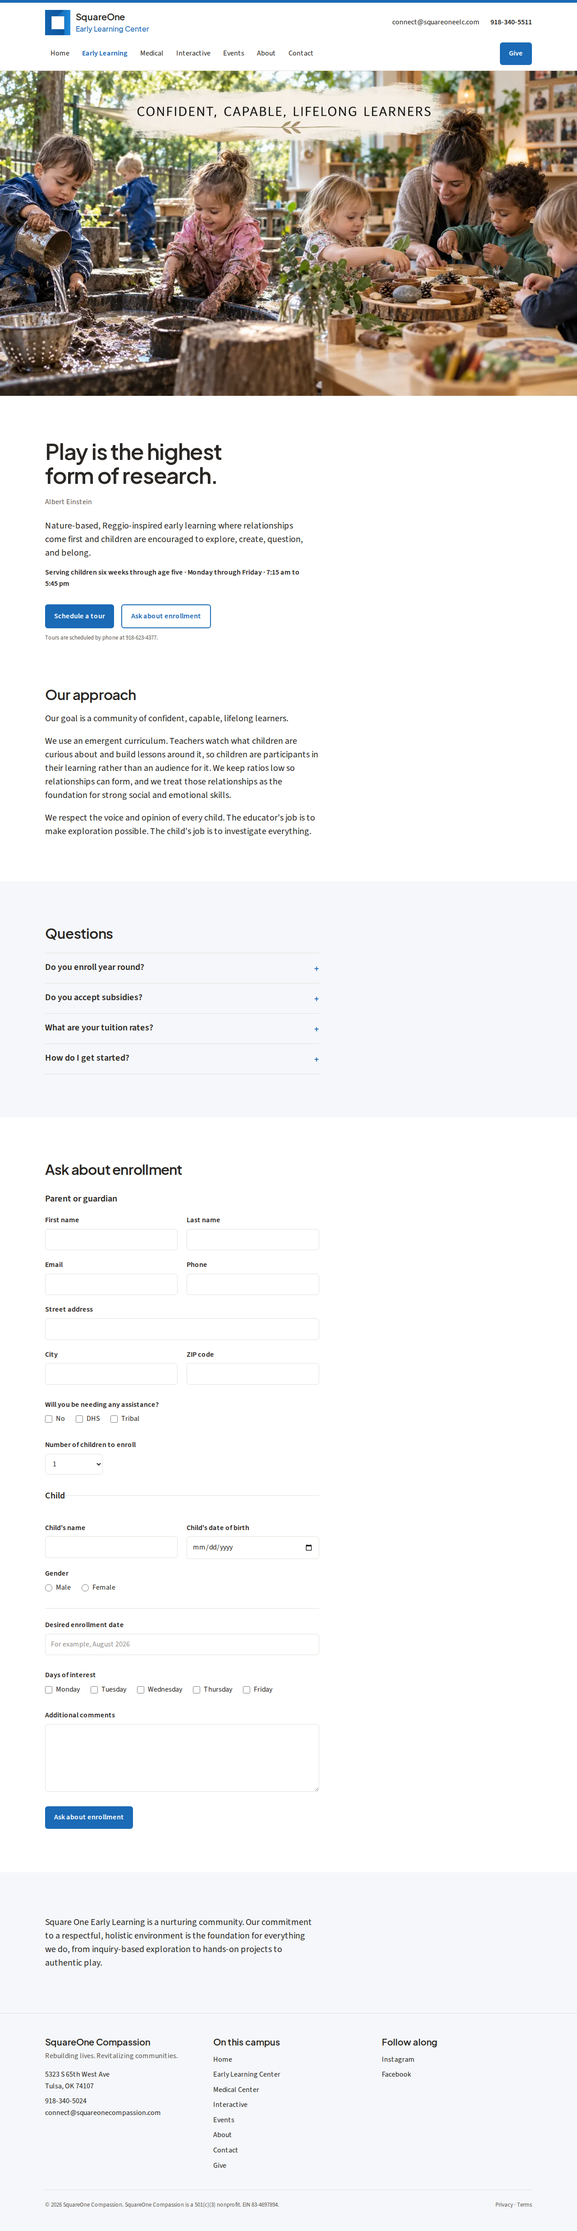
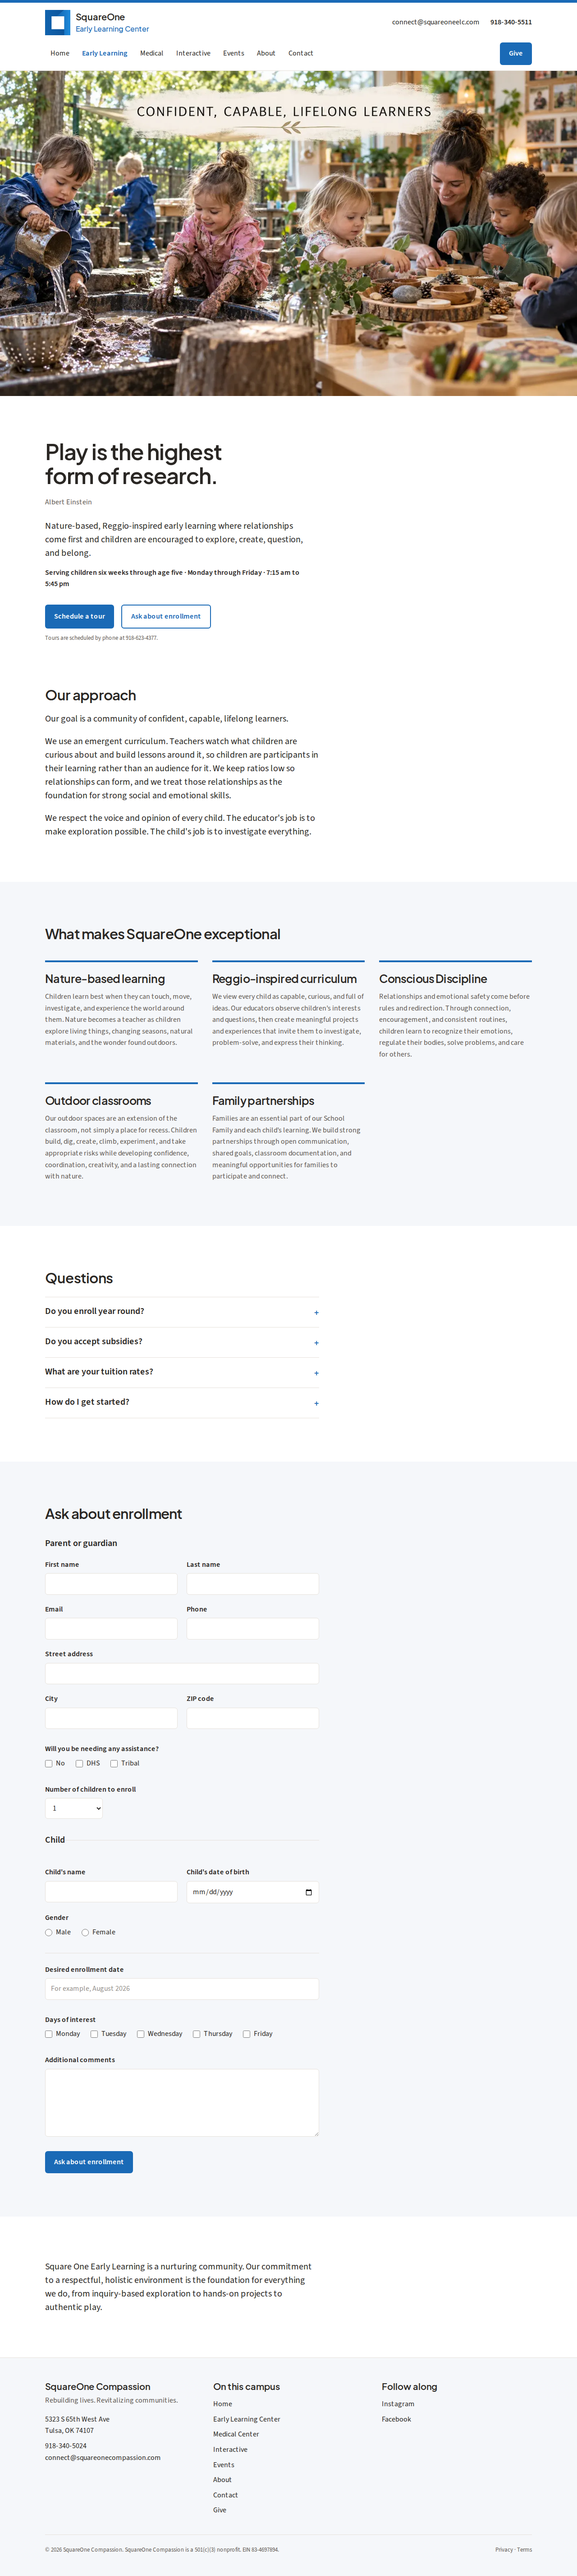
ELC page: add "What makes SquareOne exceptional" with five cards
From the ELC director: Nature-based learning, Reggio-inspired curriculum,
Conscious Discipline, Outdoor classrooms, and Family partnerships, under
Our approach. Each card shows a real photo once a file with its name is
in public/photos/elc/. Two house-style edits: "learning journey" to
"learning", an em dash to a comma.

Claude-Session: https://claude.ai/code/session_01Dy1NBE1CDjARVuM4emY1ru

diff --git a/content/elc.ts b/content/elc.ts
@@ -1,0 +1,41 @@
+// "What makes SquareOne exceptional" cards, from the ELC director. Mirrored in COPY.md.
+// Each card shows a photo when public/photos/elc/<photo>.{webp,jpg,jpeg,png} exists.
+export interface ElcPillar {
+  photo: string
+  title: string
+  body: string
+  alt: string
+}
+
+export const ELC_PILLARS: ElcPillar[] = [
+  {
+    photo: 'nature-based-learning',
+    title: 'Nature-based learning',
+    body: 'Children learn best when they can touch, move, investigate, and experience the world around them. Nature becomes a teacher as children explore living things, changing seasons, natural materials, and the wonder found outdoors.',
+    alt: 'Children exploring outdoors at SquareOne Early Learning Center',
+  },
+  {
+    photo: 'reggio-inspired-curriculum',
+    title: 'Reggio-inspired curriculum',
+    body: 'We view every child as capable, curious, and full of ideas. Our educators observe children’s interests and questions, then create meaningful projects and experiences that invite them to investigate, problem-solve, and express their thinking.',
+    alt: 'A classroom project in progress at SquareOne Early Learning Center',
+  },
+  {
+    photo: 'conscious-discipline',
+    title: 'Conscious Discipline',
+    body: 'Relationships and emotional safety come before rules and redirection. Through connection, encouragement, and consistent routines, children learn to recognize their emotions, regulate their bodies, solve problems, and care for others.',
+    alt: 'A teacher and child together at SquareOne Early Learning Center',
+  },
+  {
+    photo: 'outdoor-classrooms',
+    title: 'Outdoor classrooms',
+    body: 'Our outdoor spaces are an extension of the classroom, not simply a place for recess. Children build, dig, create, climb, experiment, and take appropriate risks while developing confidence, coordination, creativity, and a lasting connection with nature.',
+    alt: 'The outdoor classroom at SquareOne Early Learning Center',
+  },
+  {
+    photo: 'family-partnerships',
+    title: 'Family partnerships',
+    body: 'Families are an essential part of our School Family and each child’s learning. We build strong partnerships through open communication, shared goals, classroom documentation, and meaningful opportunities for families to participate and connect.',
+    alt: 'Families and teachers together at SquareOne Early Learning Center',
+  },
+]

diff --git a/app/early-learning/page.tsx b/app/early-learning/page.tsx
@@ -2,7 +2,10 @@ import type { Metadata } from 'next'
 import { PageIntro, Section } from '@/components/Section'
 import { FAQ } from '@/components/FAQ'
 import { EnrollmentForm } from '@/components/Form/EnrollmentForm'
+import Image from 'next/image'
 import { DIVISIONS, telHref } from '@/lib/site'
+import { photo } from '@/lib/photos'
+import { ELC_PILLARS } from '@/content/elc'
 import { PageBanner } from '@/components/PageBanner'
 import faq from '@/content/faq/elc.json'
 
@@ -45,18 +48,34 @@ export default function EarlyLearningPage() {
         </div>
       </Section>
 
-      <Section tint>
+      <Section tint id="exceptional">
+        <h2 className="text-2xl">What makes SquareOne exceptional</h2>
+        <ul className="mt-10 grid gap-x-8 gap-y-12 sm:grid-cols-2 lg:grid-cols-3">
+          {ELC_PILLARS.map((p) => {
+            const src = photo(`elc/${p.photo}`)
+            return (
+              <li key={p.title} className="border-t-4 border-accent pt-5">
+                {src ? <Image src={src} alt={p.alt} width={800} height={533} sizes="(min-width: 1024px) 360px, (min-width: 640px) 50vw, 100vw" className="mb-5 aspect-[3/2] w-full object-cover" /> : null}
+                <h3 className="text-xl">{p.title}</h3>
+                <p className="mt-3 text-muted">{p.body}</p>
+              </li>
+            )
+          })}
+        </ul>
+      </Section>
+
+      <Section>
         <FAQ items={faq} />
       </Section>
 
-      <Section id="enroll">
+      <Section tint id="enroll">
         <h2 className="text-2xl">Ask about enrollment</h2>
         <div className="mt-8">
           <EnrollmentForm />
         </div>
       </Section>
 
-      <Section tint>
+      <Section>
         <p className="prose-block text-lg">
           Square One Early Learning is a nurturing community. Our commitment to a respectful, holistic environment is the foundation for everything we do, from inquiry-based exploration to hands-on projects to authentic play.
         </p>

diff --git a/content/COPY.md b/content/COPY.md
@@ -144,6 +144,25 @@ We respect the voice and opinion of every child. The educator's job is to make e
 - Ask about enrollment (opens the enrollment interest form on this page)
 - (No summer program is offered; the old "virtual-learning-after-school" button is dropped.)
 
+**What makes SquareOne exceptional** (five cards, from the ELC director; copy in content/elc.ts; each card takes a real photo from public/photos/elc/ when supplied)
+
+*Nature-based learning*
+Children learn best when they can touch, move, investigate, and experience the world around them. Nature becomes a teacher as children explore living things, changing seasons, natural materials, and the wonder found outdoors.
+
+*Reggio-inspired curriculum*
+We view every child as capable, curious, and full of ideas. Our educators observe children's interests and questions, then create meaningful projects and experiences that invite them to investigate, problem-solve, and express their thinking.
+
+*Conscious Discipline*
+Relationships and emotional safety come before rules and redirection. Through connection, encouragement, and consistent routines, children learn to recognize their emotions, regulate their bodies, solve problems, and care for others.
+
+*Outdoor classrooms*
+Our outdoor spaces are an extension of the classroom, not simply a place for recess. Children build, dig, create, climb, experiment, and take appropriate risks while developing confidence, coordination, creativity, and a lasting connection with nature.
+
+*Family partnerships*
+Families are an essential part of our School Family and each child's learning. We build strong partnerships through open communication, shared goals, classroom documentation, and meaningful opportunities for families to participate and connect.
+
+(House-style edits from the director's draft: "learning journey" shortened to "learning" since "journey" is on the banned list; an em dash replaced with a comma.)
+
 **FAQ**
 
 *Do you enroll year round?*

diff --git a/CONFIRM.md b/CONFIRM.md
@@ -11,7 +11,8 @@ The build environment could not reach squareonecompassion.com (network policy), 
 - [ ] **Palette.** Colors were read from the supplied images, not extracted from files: umbrella `#05528F` / navy `#0E2140`, ELC wordmark `#1A6AB6`, Medical mark `#1163AE`. All four logos share one blue family, so the three division accents are deliberately close. Run `npm run palette` on the PNGs once committed and adjust `tailwind.config.ts` and the `--accent` variables in `app/globals.css` if the sampled values differ. `brand.int` stays fixed to the Interactive app's navy `#182740`.
 - [ ] **Photos.** Drop files into `public/photos/` with these names (`.jpg`, `.jpeg`, `.png`, or `.webp`) and redeploy; each page picks them up automatically and shows nothing if the file is missing:
   - Done: `campus.webp` (hero), `abel-lau.webp`, `jennifer-blair.webp` (Medical providers, and Dr. Lau on About).
-  - Still wanted: `matt-blair`, `stephanie-rowe`, `christina-barrington` for About leadership; ELC, Medical, Interactive, and event-space photos for those pages.
+  - Still wanted: `matt-blair`, `stephanie-rowe`, `christina-barrington` for About leadership.
+  - ELC "What makes SquareOne exceptional" cards take a photo each, in `public/photos/elc/`: `nature-based-learning`, `reggio-inspired-curriculum`, `conscious-discipline`, `outdoor-classrooms`, `family-partnerships`. Cards render without a photo until the file exists.
 - [x] **Medical intake PDFs** are in `public/docs/` under the five linked filenames. The `vercel.json` redirect from the old `/wp-content/uploads/2021/10/<name>.pdf` paths maps by filename; if the old filenames differed, add five explicit redirects.
 - [ ] **Event photos.** games.jpg, bounce.jpg, event-rental-space.jpg, event-rental-1.jpg, event-rental-2.jpg: reuse on `/events` if they still reflect the rooms. The page currently has no photos.
 
